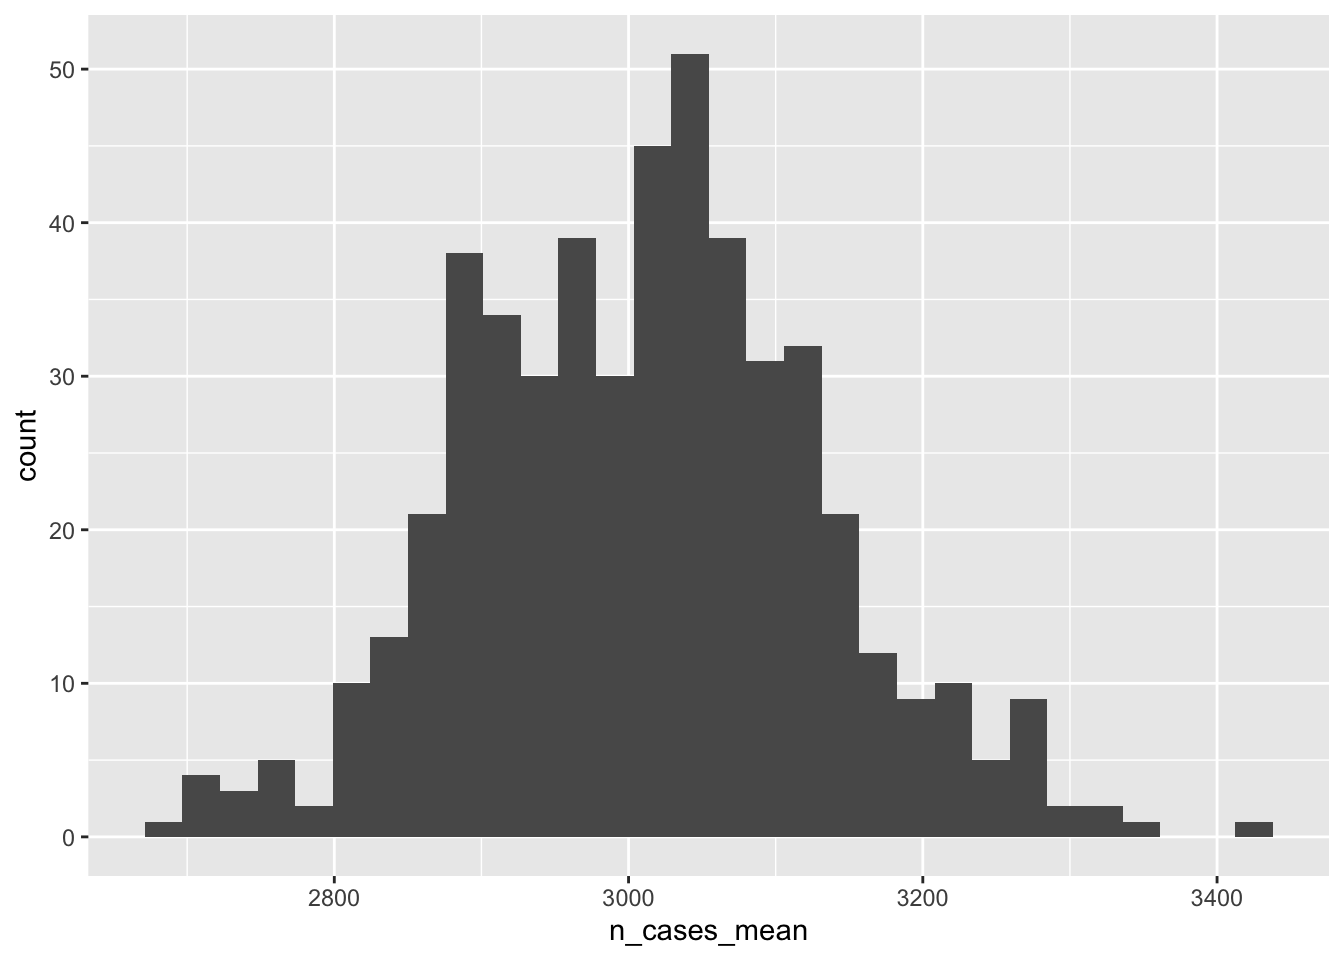
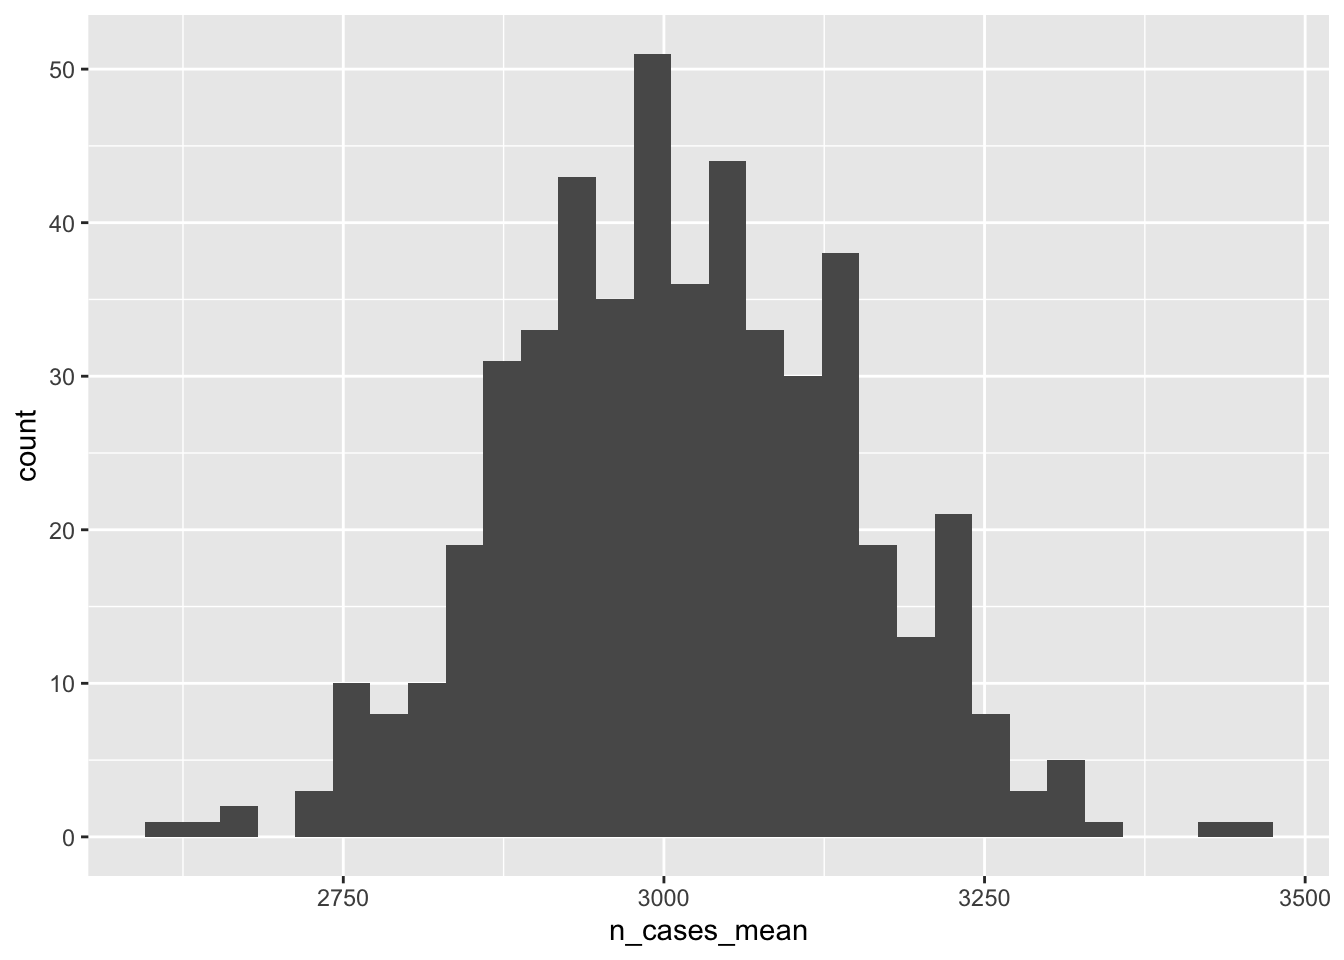
minor update module 5

diff --git a/docs/5-monte-carlo-boot-purrr.html b/docs/5-monte-carlo-boot-purrr.html
@@ -395,7 +395,7 @@ div.tocify {
 </div>
 <div id="when-independence-between-sources-of-uncertainty-does-not-hold" class="section level2" number="2.2">
 <h2><span class="header-section-number">2.2</span> When independence between sources of uncertainty does not hold</h2>
-<p>For example, in my dissertation, I aimed to estimate the total amount of bicycling on every road in Atlanta. I had two sources of information, both of which had uncertainty. The first was a sample of bicycling on every roadway obtained from a smartphone app, inducing sampling variability and probably selection bias.<span class="citation"><sup><a href="#ref-garber2022" role="doc-biblioref">3</a></sup></span> The second was a set of about 15 bicycle counters located throughout the city, assumed to accurately measure all bicycling in that location. I used these counters to estimate the proportion of bicyclists captured by the app. In this analysis, bike traffic in the smartphone-generated sample was correlated with the proportion captured in the app over the counter locations, meaning estimating the variance of their product should consider this lack of independence. Accurately estimating the variance arising from both of these inter-related sources by appropriately considering their covariance using traditional pen-and-paper statistical methods, and propagating that combined uncertainty through other steps in the analysis which may themselves have uncertainty, would be difficult.</p>
+<p>For example, in my dissertation, I aimed to estimate the total amount of bicycling on every road in Atlanta. I had two sources of information, both of which had uncertainty. The first was a sample of bicycling on every roadway obtained from a smartphone app, inducing sampling variability and probably selection bias.<span class="citation"><sup><a href="#ref-garber2022" role="doc-biblioref">3</a></sup></span> The second was a set of about 15 bicycle counters located throughout the city, assumed to accurately measure all bicycling in that location. I used these counters to estimate the proportion of bicyclists captured by the app. In this analysis, bike traffic in the smartphone-generated sample was correlated with the proportion captured in the app over the counter locations, meaning that estimating the variance of their product should consider this lack of independence. Accurately estimating the variance arising from both of these inter-related sources by appropriately considering their covariance using traditional pen-and-paper statistical methods, and propagating that combined uncertainty through other steps in the analysis which may themselves have uncertainty, would be difficult.</p>
 </div>
 </div>
 <div id="estimating-variability-via-repeated-resampling-of-random-variations" class="section level1" number="3">
@@ -535,18 +535,18 @@ monte_carlo_sim_lots  = rep_id_val_list %&gt;%
 <p>Take a look at the output.</p>
 <pre class="r"><code>monte_carlo_sim_lots</code></pre>
 <pre><code>## # A tibble: 50,000 × 7
-##    county_id state   pop   dem  prev n_cases rep_id
-##        &lt;int&gt; &lt;dbl&gt; &lt;int&gt; &lt;int&gt; &lt;dbl&gt;   &lt;int&gt;  &lt;int&gt;
-##  1         1     1  9961     1 0.385    3835      1
-##  2         2     1  9956     1 0.418    4160      1
-##  3         3     1 10079     0 0.220    2220      1
-##  4         4     1  9981     1 0.414    4132      1
-##  5         5     1  9915     1 0.226    2243      1
-##  6         6     1 10183     1 0.348    3545      1
-##  7         7     1 10015     0 0.292    2926      1
-##  8         8     1  9741     0 0.242    2352      1
-##  9         9     1 10027     1 0.361    3619      1
-## 10        10     1  9960     0 0.183    1826      1
+##    county_id state   pop   dem   prev n_cases rep_id
+##        &lt;int&gt; &lt;dbl&gt; &lt;int&gt; &lt;int&gt;  &lt;dbl&gt;   &lt;int&gt;  &lt;int&gt;
+##  1         1     1 10161     1 0.431     4376      1
+##  2         2     1 10056     0 0.139     1394      1
+##  3         3     1  9983     1 0.272     2716      1
+##  4         4     1  9976     1 0.481     4802      1
+##  5         5     1  9951     1 0.508     5056      1
+##  6         6     1 10004     1 0.0977     977      1
+##  7         7     1 10037     1 0.400     4011      1
+##  8         8     1 10065     1 0.544     5479      1
+##  9         9     1 10123     1 0.271     2738      1
+## 10        10     1  9919     0 0.214     2120      1
 ## # … with 49,990 more rows
 ## # ℹ Use `print(n = ...)` to see more rows</code></pre>
 <p>How many rows?</p>
@@ -590,7 +590,7 @@ monte_carlo_sim_lots  = rep_id_val_list %&gt;%
 <pre><code>## # A tibble: 1 × 5
 ##   state n_cases_mean_ll n_cases_mean_med n_cases_mean_ul simulation_type
 ##   &lt;dbl&gt;           &lt;dbl&gt;            &lt;dbl&gt;           &lt;dbl&gt; &lt;chr&gt;          
-## 1     1           2773.            3014.           3261. monte-carlo</code></pre>
+## 1     1           2760.            3006.           3266. monte-carlo</code></pre>
 </div>
 </div>
 <div id="bootstrap" class="section level2" number="4.2">
@@ -602,18 +602,18 @@ monte_carlo_sim_lots  = rep_id_val_list %&gt;%
 <p>Take a look:</p>
 <pre class="r"><code>monte_carlo_sim_one_boot</code></pre>
 <pre><code>## # A tibble: 100 × 6
-##    county_id state   pop   dem   prev n_cases
-##        &lt;int&gt; &lt;dbl&gt; &lt;int&gt; &lt;int&gt;  &lt;dbl&gt;   &lt;int&gt;
-##  1        72     1 10051     0 0.0820     823
-##  2        28     1 10154     1 0.446     4533
-##  3         8     1  9995     1 0.634     6340
-##  4        40     1  9936     0 0.172     1707
-##  5        60     1 10036     0 0.237     2382
-##  6        54     1 10045     0 0.348     3496
-##  7        58     1 10015     0 0.0619     619
-##  8        67     1 10035     1 0.497     4991
-##  9        39     1  9977     1 0.290     2888
-## 10        78     1  9947     0 0.255     2535
+##    county_id state   pop   dem  prev n_cases
+##        &lt;int&gt; &lt;dbl&gt; &lt;int&gt; &lt;int&gt; &lt;dbl&gt;   &lt;int&gt;
+##  1        70     1  9897     1 0.345    3413
+##  2        59     1  9931     1 0.330    3275
+##  3        75     1 10060     0 0.249    2501
+##  4        70     1  9897     1 0.345    3413
+##  5        12     1  9955     0 0.198    1969
+##  6        18     1  9779     0 0.287    2802
+##  7        73     1  9964     1 0.246    2448
+##  8        51     1 10006     1 0.420    4205
+##  9        89     1 10073     1 0.431    4337
+## 10        34     1  9924     1 0.440    4363
 ## # … with 90 more rows
 ## # ℹ Use `print(n = ...)` to see more rows</code></pre>
 <p>As expected, we have the same number of rows, but fewer unique values for <code>county_id.</code> Some are repeating.</p>
@@ -640,18 +640,18 @@ monte_carlo_sim_lots  = rep_id_val_list %&gt;%
 <h3><span class="header-section-number">4.2.3</span> Summarize results</h3>
 <pre class="r"><code>boot_lots</code></pre>
 <pre><code>## # A tibble: 50,000 × 7
-##    county_id state   pop   dem  prev n_cases rep_id
-##        &lt;int&gt; &lt;dbl&gt; &lt;int&gt; &lt;int&gt; &lt;dbl&gt;   &lt;int&gt;  &lt;int&gt;
-##  1         3     1  9863     1 0.492    4849      1
-##  2        89     1 10073     1 0.431    4337      1
-##  3        38     1 10078     0 0.394    3974      1
-##  4        43     1  9984     0 0.234    2336      1
-##  5        43     1  9984     0 0.234    2336      1
-##  6        19     1 10000     0 0.527    5271      1
-##  7        86     1 10100     1 0.338    3408      1
-##  8        28     1 10154     1 0.446    4533      1
-##  9        47     1  9904     0 0.206    2042      1
-## 10        47     1  9904     0 0.206    2042      1
+##    county_id state   pop   dem   prev n_cases rep_id
+##        &lt;int&gt; &lt;dbl&gt; &lt;int&gt; &lt;int&gt;  &lt;dbl&gt;   &lt;int&gt;  &lt;int&gt;
+##  1        12     1  9955     0 0.198     1969      1
+##  2        27     1  9981     0 0.338     3369      1
+##  3        29     1  9938     1 0.350     3476      1
+##  4        18     1  9779     0 0.287     2802      1
+##  5        66     1  9870     1 0.570     5628      1
+##  6        48     1  9804     0 0.157     1539      1
+##  7        58     1 10015     0 0.0619     619      1
+##  8        70     1  9897     1 0.345     3413      1
+##  9        25     1  9909     1 0.554     5488      1
+## 10         5     1 10132     0 0.243     2464      1
 ## # … with 49,990 more rows
 ## # ℹ Use `print(n = ...)` to see more rows</code></pre>
 <p>What’s the distribution of <code>n_cases_mean</code> over bootstrap replications?</p>
@@ -686,15 +686,15 @@ monte_carlo_sim_lots  = rep_id_val_list %&gt;%
 <pre><code>## # A tibble: 1 × 5
 ##   state n_cases_mean_ll n_cases_mean_med n_cases_mean_ul simulation_type
 ##   &lt;dbl&gt;           &lt;dbl&gt;            &lt;dbl&gt;           &lt;dbl&gt; &lt;chr&gt;          
-## 1     1           2807.            3047.           3284. bootstrap</code></pre>
+## 1     1           2837.            3062.           3276. bootstrap</code></pre>
 <p>How does this estimate of the sampling distribution of <code>n_cases_mean</code> align with the truth? We happen to know the truth here. It’s the distribution of <code>n_cases_mean</code> between the Monte Carlo simulations, defined above.</p>
 <pre class="r"><code>monte_carlo_sim_lots_summary %&gt;% 
   bind_rows(boot_lots_summary)</code></pre>
 <pre><code>## # A tibble: 2 × 5
 ##   state n_cases_mean_ll n_cases_mean_med n_cases_mean_ul simulation_type
 ##   &lt;dbl&gt;           &lt;dbl&gt;            &lt;dbl&gt;           &lt;dbl&gt; &lt;chr&gt;          
-## 1     1           2773.            3014.           3261. monte-carlo    
-## 2     1           2807.            3047.           3284. bootstrap</code></pre>
+## 1     1           2760.            3006.           3266. monte-carlo    
+## 2     1           2837.            3062.           3276. bootstrap</code></pre>
 </div>
 </div>
 </div>
@@ -740,7 +740,7 @@ function_result_one_county</code></pre>
 <pre><code>## # A tibble: 1 × 5
 ##   state county_id example_var_x example_var_y example_var_z
 ##   &lt;dbl&gt;     &lt;int&gt;         &lt;dbl&gt;         &lt;dbl&gt;         &lt;int&gt;
-## 1     1         2        0.0604             4             0</code></pre>
+## 1     1         2        -0.107             4             0</code></pre>
 </div>
 <div id="references" class="section level1 unnumbered">
 <h1><strong>References</strong></h1>
